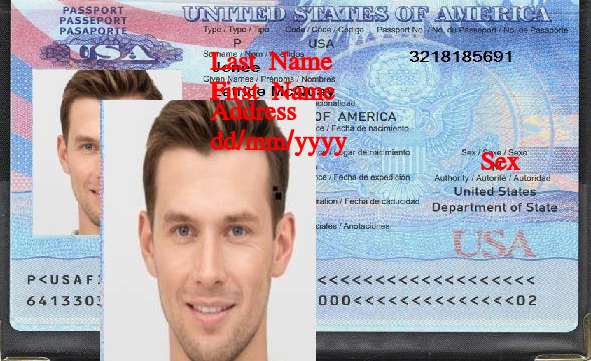
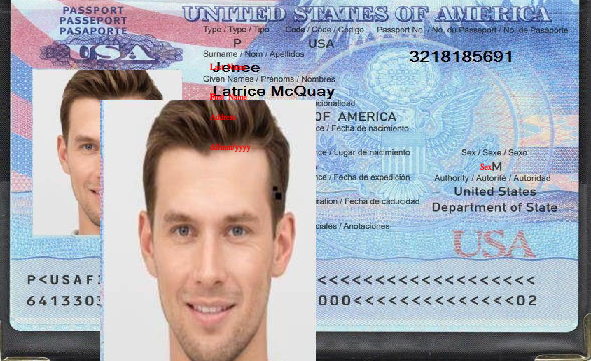
add config

Changed region(s): [[0.335, 0.1219, 0.5787, 0.3352], [0.335, 0.3657, 0.6091, 0.4266], [0.7919, 0.4266, 0.8832, 0.4875]]

diff --git a/upPhoiWindow.py b/upPhoiWindow.py
@@ -1,18 +1,12 @@
 import sys
-from PyQt5.QtWidgets import QApplication, QWidget, \
-                            QInputDialog, QLineEdit,\
-                            QFileDialog, QTableWidget, \
-                            QTableWidgetItem, QMessageBox, \
-                            QHeaderView, QStyle, QStyleOptionButton,QAction,  \
-                            QCheckBox, QVBoxLayout, QMenu
+from PyQt5.QtWidgets import QFileDialog
 
-from PyQt5.QtGui import QPainter, QPixmap, QFont,QPagedPaintDevice, QFontDatabase, QTransform, QDesktopServices, QClipboard, QPdfWriter
-from PyQt5.QtCore import Qt, QRect, QUrl
+from PyQt5.QtGui import QPainter, QPixmap, QFont, QFontDatabase, QTransform, QDesktopServices, QClipboard, QPdfWriter
+from PyQt5.QtCore import Qt, QUrl,  QSettings
 from Custom_Widgets.Widgets import *
-from PyQt5 import QtWidgets
-from PySide2.QtPrintSupport import QPrinter
 
 from ui_upPhoiWindow import *
+
 class UpPhoiWindow(QMainWindow):
     def __init__(self, parent=None):
         QMainWindow.__init__(self)
@@ -119,12 +113,6 @@ class UpPhoiWindow(QMainWindow):
         painter.setTransform(transform_5)
         painter.drawText(address_x, address_y, address)
 
-        # painter.drawText(givenname_x, givenname_y, givenname)
-        # painter.drawText(surname_x, surname_y, surname)
-        # painter.drawText(birthday_x, birthday_y, birthday)
-        # painter.drawText(gender_x, gender_y, gender)
-        # painter.drawText(address_x, address_y, address)
-        painter.end()
         self.combined_image = combined_image
         self.ui.label_img.setPixmap(combined_image)
         self.ui.label_img.show()
@@ -251,6 +239,82 @@ class UpPhoiWindow(QMainWindow):
         self.preview_window.show()
         # Save the combined_image as PDF
         self.save_as_png(self.combined_image)
+        # self.save_value()
+        self.load_value("/home/baoanh/Desktop/qt5_application/app_v1/output/config.ini")
     def save_as_png(self,   image):
         image.save("output/preview.png", "PNG")
+    
+    def load_value(self, filepath):
+        settings = QSettings(filepath, QSettings.IniFormat)
+        defaultValue = 0
+        # Load values from the configuration file and set them to spin box widgets
+        self.ui.spinBox.setValue(int(settings.value("Foreground_Width", defaultValue)))
+        self.ui.spinBox_2.setValue(int(settings.value("Foreground_Height", defaultValue)))
+        self.ui.spinBox_3.setValue(int(settings.value("Foreground_x", defaultValue)))
+        self.ui.spinBox_4.setValue(int(settings.value("Foreground_y", defaultValue)))
+        self.ui.spinBox_5.setValue(int(settings.value("Foreground_Angle", defaultValue)))
+        self.ui.comboBox_2.setCurrentText(settings.value("Font_Size", defaultValue))
+        self.ui.comboBox_3.setCurrentText(settings.value("Font_Family", defaultValue))
+        self.ui.spinBox_23.setValue(int(settings.value("GivenName_x", defaultValue)))
+        self.ui.spinBox_25.setValue(int(settings.value("GivenName_y", defaultValue)))
+        self.ui.spinBox_24.setValue(int(settings.value("GivenName_Angle", defaultValue)))
+        self.ui.spinBox_15.setValue(int(settings.value("FirstName_x", defaultValue)))
+        self.ui.spinBox_14.setValue(int(settings.value("FirstName_y", defaultValue)))
+        self.ui.spinBox_16.setValue(int(settings.value("FirstName_Angle", defaultValue)))
+        self.ui.spinBox_18.setValue(int(settings.value("Birthday_x", defaultValue)))
+        self.ui.spinBox_17.setValue(int(settings.value("Birthday_y", defaultValue)))
+        self.ui.spinBox_19.setValue(int(settings.value("Birthday_Angle", defaultValue)))
+        self.ui.spinBox_12.setValue(int(settings.value("Gender_x", defaultValue)))
+        self.ui.spinBox_11.setValue(int(settings.value("Gender_y", defaultValue)))
+        self.ui.spinBox_13.setValue(int(settings.value("Gender_Angle", defaultValue)))
+        self.ui.spinBox_22.setValue(int(settings.value("Address_x", defaultValue)))
+        self.ui.spinBox_20.setValue(int(settings.value("Address_y", defaultValue)))
+        self.ui.spinBox_21.setValue(int(settings.value("Address_Angle", defaultValue)))
+        print("Loading successfully!")
+    def save_value(self):
+        import datetime
+
+        # Get the current date and time
+        current_datetime = datetime.datetime.now()
+
+        # Format the datetime as a string
+        datetime_string = current_datetime.strftime("%Y-%m-%d_%H-%M-%S")
+        settings = QSettings(f"output/config_{datetime_string}.ini", QSettings.IniFormat)
+        # Clear the content of the config file
+        settings.clear()
+        settings.setValue("Background_Width", 591)
+        settings.setValue("Backgroun_Height",361)
+
+        settings.setValue("Foreground_Width", self.ui.spinBox.value())
+        settings.setValue("Foreground_Height",  self.ui.spinBox_2.value())
+        settings.setValue("Foreground_x",  self.ui.spinBox_3.value())
+        settings.setValue("Foreground_y",  self.ui.spinBox_4.value())
+        settings.setValue("Foreground_Angle", self.ui.spinBox_5.value())
+
+        settings.setValue("Font_Size", self.ui.comboBox_2.currentText())
+        settings.setValue("Font_Family", self.ui.comboBox_3.currentText())
+
+        
+        settings.setValue("GivenName_x", self.ui.spinBox_23.value())
+        settings.setValue("GivenName_y", self.ui.spinBox_25.value())
+        settings.setValue("GivenName_Angle",self.ui.spinBox_24.value())
+
+        settings.setValue("FirstName_x", self.ui.spinBox_15.value())
+        settings.setValue("FirstName_y", self.ui.spinBox_14.value())
+        settings.setValue("FirstName_Angle", self.ui.spinBox_16.value())
+
+        settings.setValue("Birthday_x", self.ui.spinBox_18.value())
+        settings.setValue("Birthday_y", self.ui.spinBox_17.value())
+        settings.setValue("Birthday_Angle", self.ui.spinBox_19.value())
+
+        settings.setValue("Gender_x", self.ui.spinBox_12.value())
+        settings.setValue("Gender_y",self.ui.spinBox_11.value())
+        settings.setValue("Gender_Angle", self.ui.spinBox_13.value())
+
+        settings.setValue("Address_x", self.ui.spinBox_22.value())
+        settings.setValue("Address_y",  self.ui.spinBox_20.value())
+        settings.setValue("Address_Angle", self.ui.spinBox_22.value())
+
+        settings.sync()
+        print(f"All configuration is saved in output/config_{datetime_string}.ini")
 
